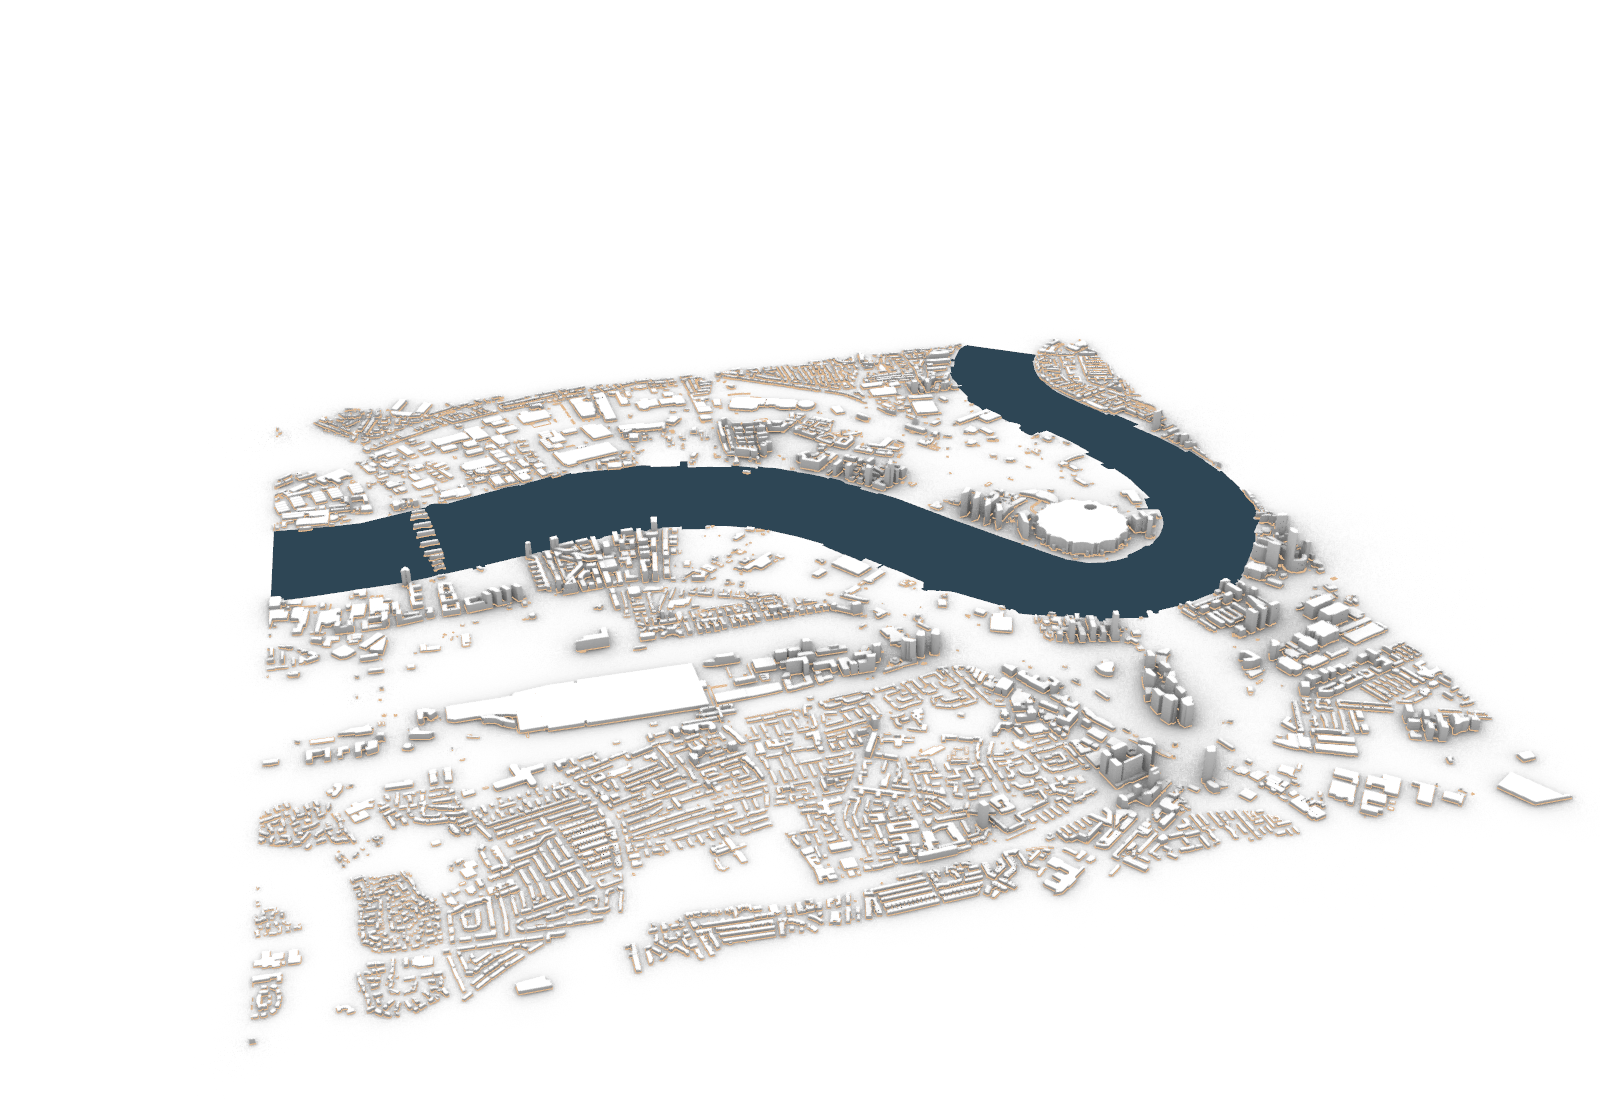
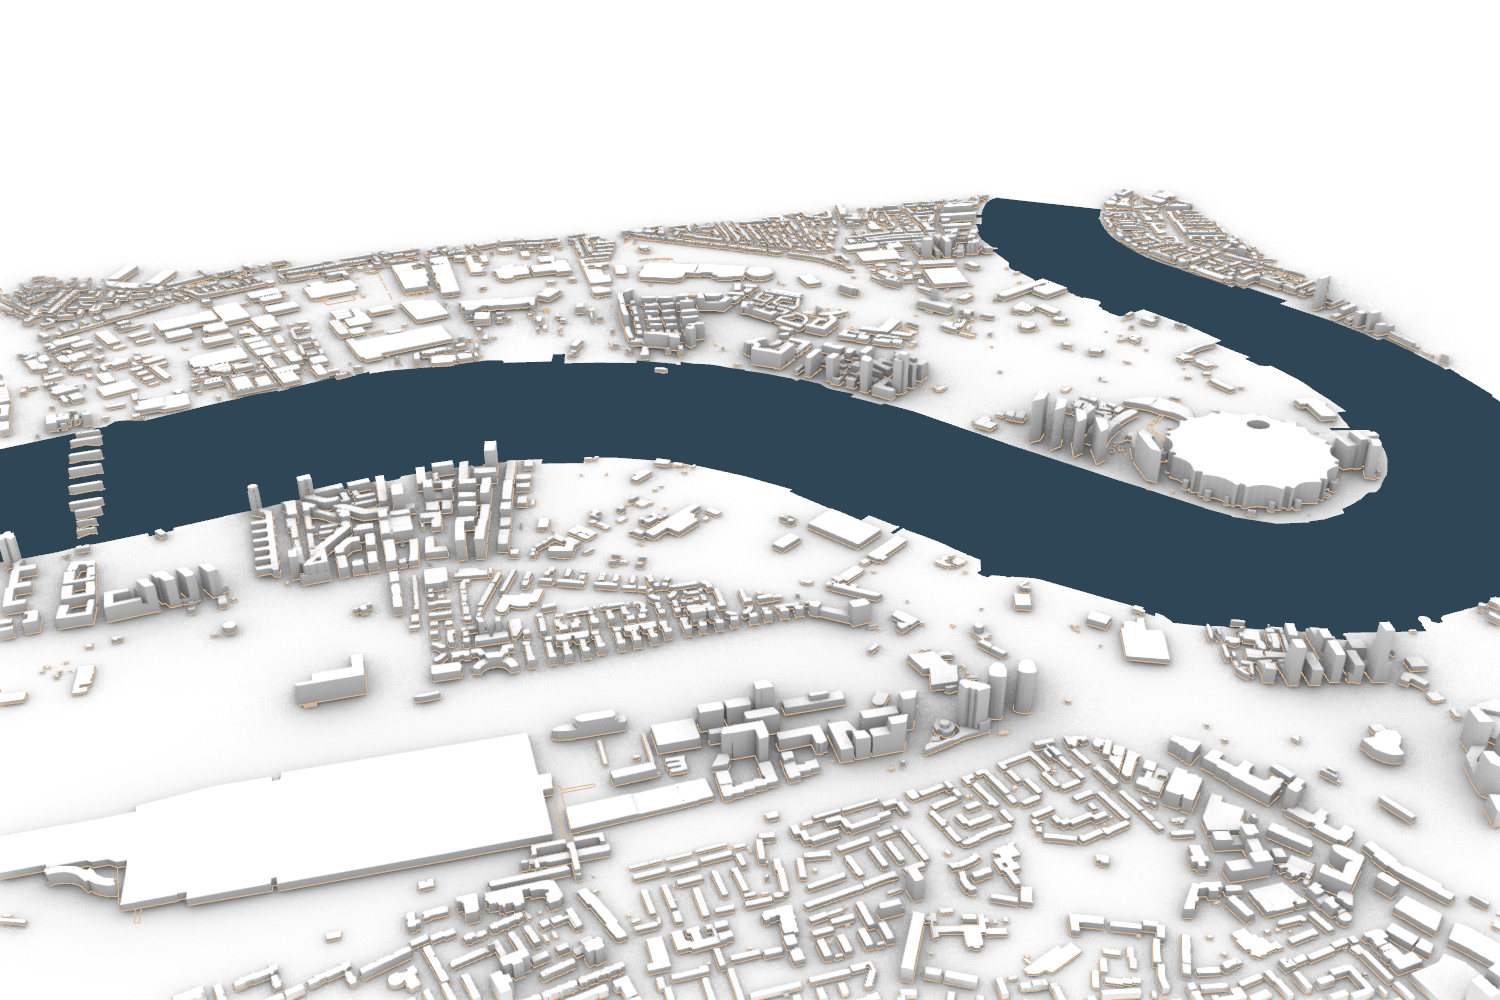
Show close Rhino details and base map in README

diff --git a/README.md b/README.md
@@ -47,22 +47,30 @@ This example uses the Thames Wharf site in Poplar, London. The site model joins 
 
 ### 1. Review the Rhino site model
 
-The images below show the same elevated Rhino view. Layer visibility and display mode change to show each part of the model.
+These close views use the same elevated Rhino camera. Layer visibility and display mode change to show each part of the model.
 
-![Rhino view of the full Thames Wharf site model, with buildings, streets, land and water](docs/images/poplar/model-context.png)
+![Close Rhino view of the Thames Wharf site model, with building volumes beside the river](docs/images/poplar/model-context.png)
 
 | Building volumes and terrain | Streets, land and water with buildings hidden |
 | :---: | :---: |
 | [![Rhino view of building volumes and terrain](docs/images/poplar/model-buildings.png)](docs/images/poplar/model-buildings.png) | [![Rhino view of streets, land and water](docs/images/poplar/model-landscape.png)](docs/images/poplar/model-landscape.png) |
 
+The GIF shows the landscape layers, the full context, and the building volumes from this same view.
+
+![GIF showing three layer states of the close Rhino site view](docs/images/poplar/model-layer-reveal.gif)
+
 ### 2. Make vector site maps
 
-The map workflow uses one checked 2D source and one shared map frame. It makes editable SVG boards for figure ground, green structure, and blue structure. Select a map to open the full SVG.
+The map workflow uses one checked 2D source and one shared map frame. The base map gives each board the same buildings, streets, and water context.
+
+![Shared base map for the Thames Wharf site analysis boards](docs/images/poplar/Base_Map.svg)
+
+The workflow makes editable SVG boards for figure ground, green structure, and blue structure. Select a map to open the full SVG.
 
 | Figure ground | Green structure | Blue structure |
 | :---: | :---: | :---: |
 | [![Figure ground map of Thames Wharf](docs/images/poplar/Figure_ground.svg)](docs/images/poplar/Figure_ground.svg) | [![Green structure map of Thames Wharf](docs/images/poplar/Green_structure.svg)](docs/images/poplar/Green_structure.svg) | [![Blue structure map of Thames Wharf](docs/images/poplar/Blue_structure.svg)](docs/images/poplar/Blue_structure.svg) |
 
-The export also includes the [shared base map](docs/images/poplar/Base_Map.svg) and the [three-board site analysis SVG](docs/images/poplar/Site_Analysis.svg). The workflow can save a review PDF. Native Illustrator files need an application that can save and check `.ai` files.
+The export also includes the [three-board site analysis SVG](docs/images/poplar/Site_Analysis.svg). The workflow can save a review PDF. Native Illustrator files need an application that can save and check `.ai` files.
 
 For release work, see the [package guide](docs/packaging.md).
